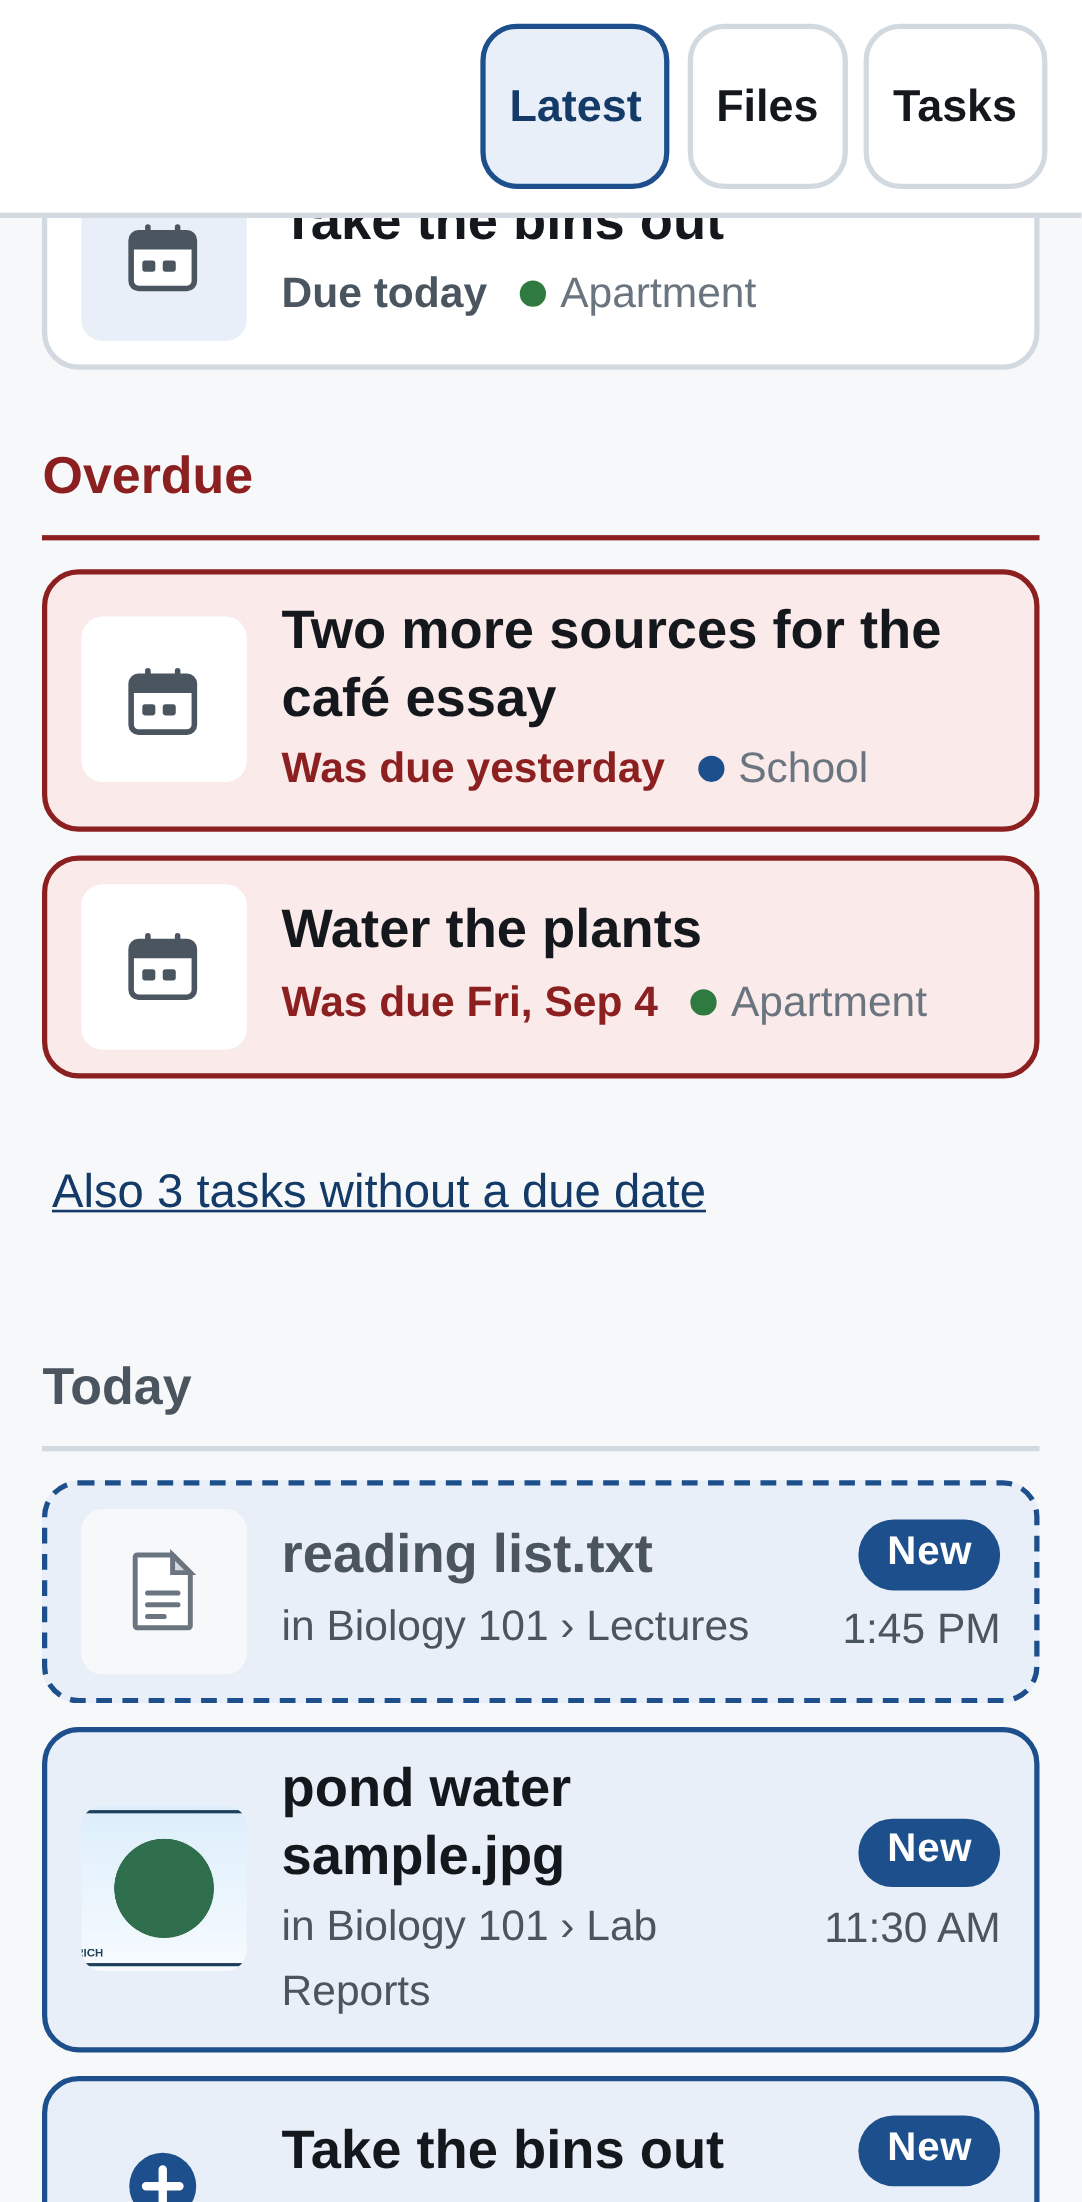
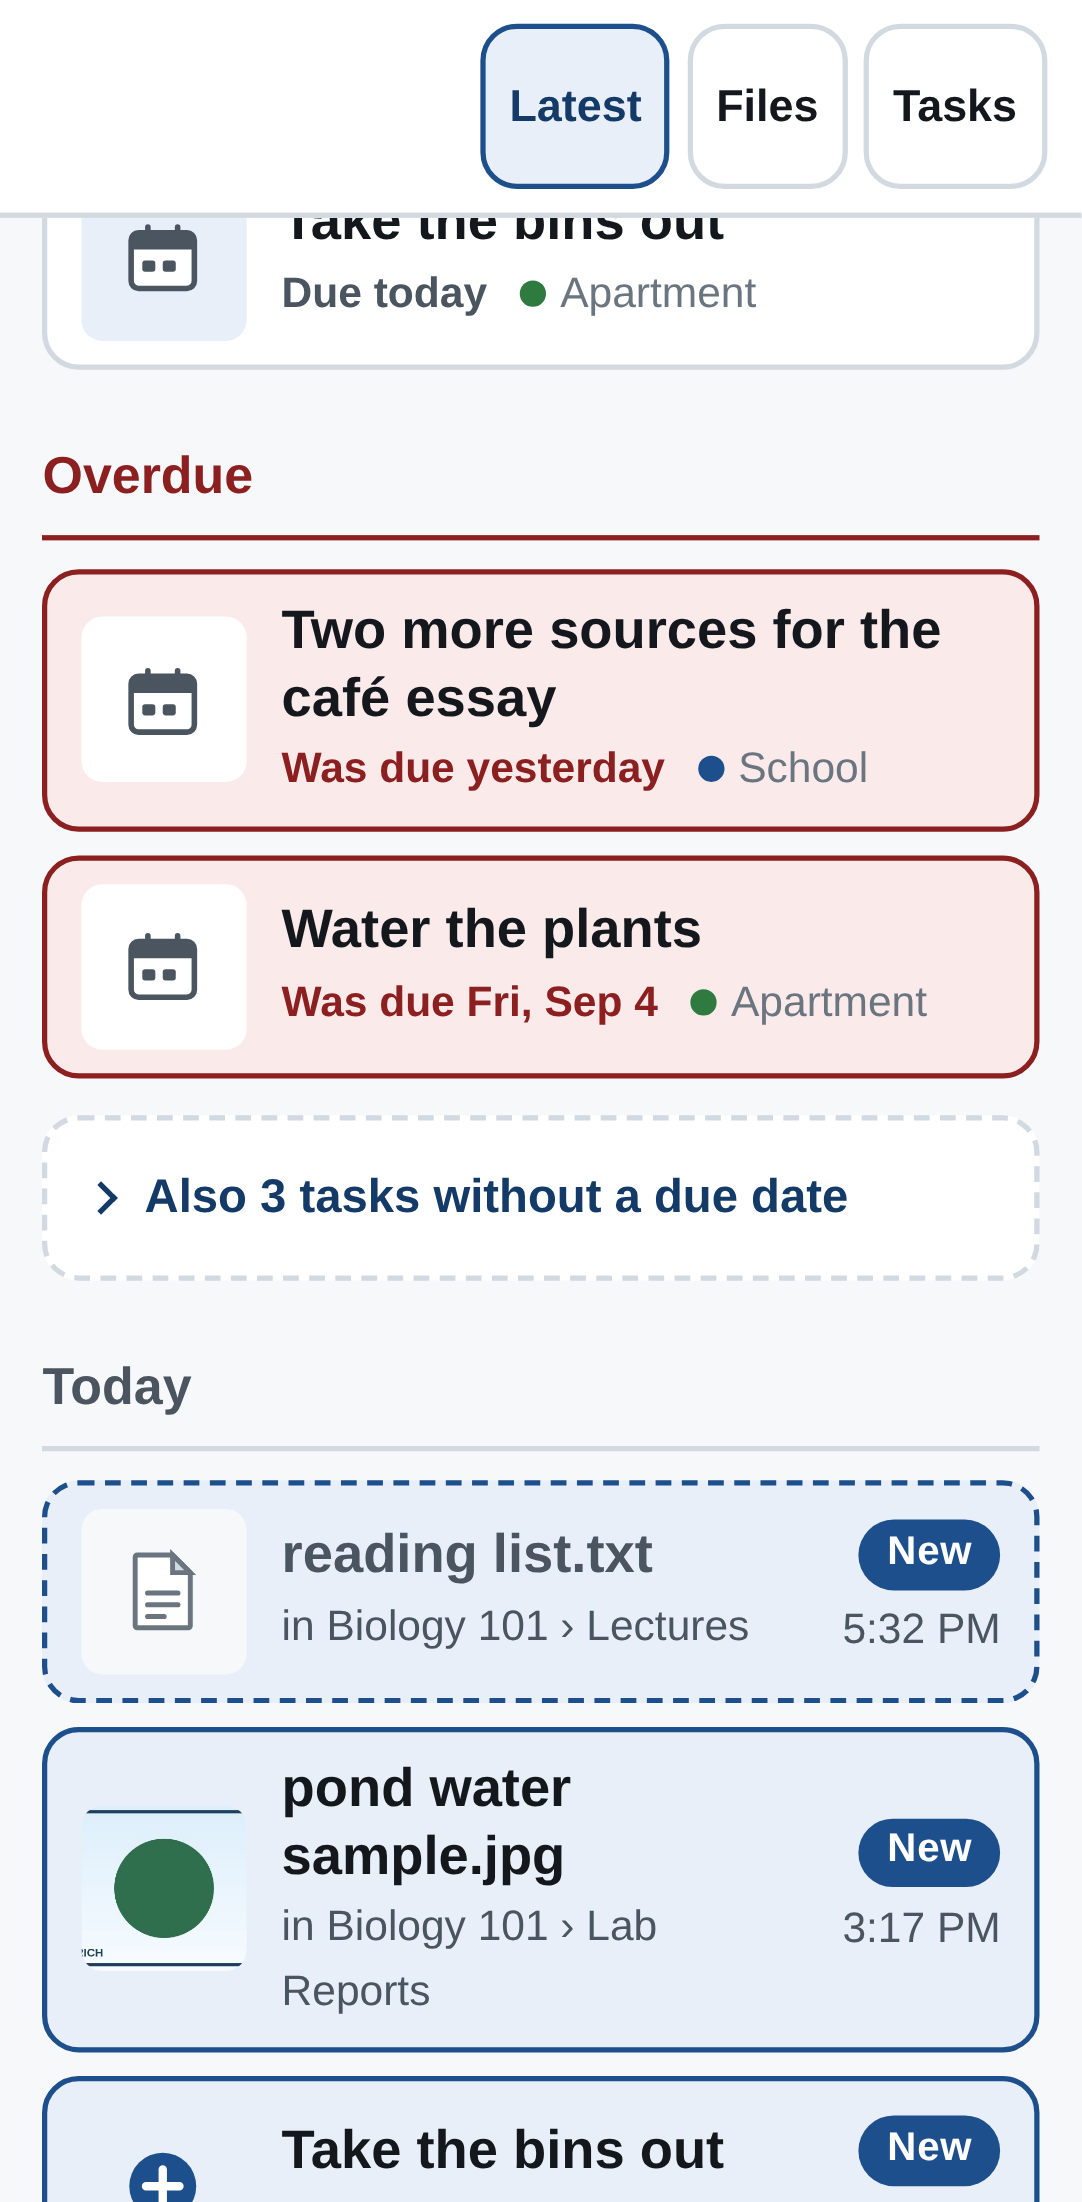
Write down why the undated tasks open in place
README's Latest description and its screenshot alt text; the #3 plan gets a
"superseded" note under the decision that sent the undated line to /tasks, with
the reasoning, the new function signatures and the test list. The follow-on
"all tasks together" issue is unaffected -- it no longer has to rescue this
line.

stream.png regenerated: the twisty is closed by default, but a dashed row with
a chevron is not the plain link it replaced.

Changed region(s): [[0.0305, 0.525, 0.793, 0.5559], [0.7625, 0.8647, 0.8845, 0.8955], [0.8235, 0.7103, 0.854, 0.7411]]

diff --git a/scripts/screenshots.js b/scripts/screenshots.js
@@ -63,7 +63,7 @@ async function main() {
     await page.waitForURL(`${demo.url}/#today`);
     await page.waitForLoadState('networkidle');
     // ...then back up a little, so the shot holds both sides of the line: the
-    // overdue task and the undated line above it, the Today divider, and the
+    // overdue task and the undated twisty above it, the Today divider, and the
     // first of the history below. Landing exactly on the anchor would show the
     // history alone, which is the half this page already had.
     await page.evaluate(() => window.scrollBy(0, -420));

diff --git a/docs/plans/issue-3-tasks-in-stream.md b/docs/plans/issue-3-tasks-in-stream.md
@@ -22,6 +22,21 @@ Status: planned 2026-09-07. Depends on #2 (the stream). Starts after #2 merges.
   is filed as its own issue, to be designed together with #4 (task cards). When
   that lands, this link points at it.
 
+**Superseded 2026-09-07 — the undated line is now a twisty, not a link.** The
+link out was the wrong answer, and the reason is what this whole page is for:
+Latest is already the cross-list view. Every dated open task is above the line,
+every finished one is in the history below it — so the undated bucket was the
+one thing on the page a reader had to leave the page to see, and where it sent
+her was a grid of list buttons rather than the four chores she was after. It is
+now a JS-free `<details>` sitting where the line was: the same wording as the
+summary ("Also 3 tasks without a due date", singular handled), closed by
+default so the axis is not pushed down the screen, and the tasks themselves as
+ordinary `task_item` rows inside it — same icon as a due row, "No due date"
+where the due row names a day, sorted by list then A-Z, each opening its list
+page. Files and Tasks remain the places for browsing by structure, and the
+"all tasks together" issue is unaffected: when it lands it is a Tasks-side
+view, not this page's escape hatch.
+
 ## What changes for the reader
 
 - Opening the app lands on **Today**. Above it, what's coming: "Due Tue, Aug 12 —
@@ -99,8 +114,13 @@ it is what makes "added" honest with the data this client actually writes.
 ```js
 export function taskEvents(todos, list, ledger, { now })  // → history events + ledger updates
 export function upcomingTasks(todos, list, { now })   // → dated open tasks
-export function undatedOpenCount(todos)
+export function undatedTasks(todos, list)             // → undated open tasks, as rows
+export function sortUndated(rows)                     // → by list, then A-Z
 ```
+
+(`undatedTasks` takes no clock: an undated row has no date to read against one,
+which is the whole difference between it and `upcomingTasks`. It was
+`undatedOpenCount(todos) → number` until the twisty replaced the link.)
 
 Event rules (history, below the line), fed by the todos plus the ledger:
 - `task-added` at `createdAt ?? stampAt`, on first sighting (§1b).
@@ -152,14 +172,18 @@ todosByList = await Promise.allSettled(calendars.map(c => fetchTodos(client, c.s
 
 - `buildStream(events, …)` accepts mixed `file`/`task-*` events; sorts by `at`
   desc; applies the overall limit (drop the oldest); day-groups; sets `isNew`.
-- New: `buildTimeline({ upcoming, history, undatedCount, tasksUnavailable })` →
+- New: `buildTimeline({ upcoming, history, undated, tasksUnavailable })` →
   the template model `{ future: [...days], today: {...}, past: [...days],
-  undatedLabel, moreLabel }`. `undatedLabel` = "Also 1 task without a due date"
-  / "Also 17 tasks without a due date" (pluralized), null when zero.
+  undated, moreLabel }`. `undated` is `{label, rows}` — the label is "Also 1
+  task without a due date" / "Also 17 tasks without a due date" (pluralized) —
+  or null when there are none. A twisty row is badged **New** when the same
+  task's Added row below the line is: the badge rule reads `at`, which an
+  undated row has not got, so rather than invent a second rule the timeline
+  reads the answer the history already came to, matched by list slug and UID.
 
 ### 5. Templates and CSS
 
-- `stream.njk`: future groups, then the undated line, then `<h2 id="today">`,
+- `stream.njk`: future groups, then the undated twisty, then `<h2 id="today">`,
   then the history. `_stream.njk` gains `task_item(event)` (icon by kind: a
   check for finished, a plus for added, a pencil for changed, a small calendar
   for due; four tiny SVGs in `public/icons/`), the list name with its accent
@@ -185,14 +209,18 @@ todosByList = await Promise.allSettled(calendars.map(c => fetchTodos(client, c.s
 
 Unit: `stream-tasks.test.js` (event rules, 60 s tolerance, cancelled skipped,
 fallbacks when stamps are missing, upcoming order with overdue at the bottom,
-undated count/pluralization), `stream.test.js` (mixed merge order, limit drops
+undated rows, their by-list-then-A-Z order, pluralization, empty → null),
+`stream.test.js` (mixed merge order, limit drops
 the oldest), `stream-route.test.js` (one list failing → page still renders and
 the warning logs once; calendar PROPFIND failing → `tasksUnavailable` line).
 
 E2E: a finished task appears between file rows in time order with its list name;
-future tasks above Today, overdue in red just above the line; "Also N tasks
-without a due date" links to `/tasks`; landing on `/#today` puts Today in view
-on the phone with JS off; the failing-list mock still renders the page.
+future tasks above Today, overdue in red just above the line; the "Also N tasks
+without a due date" summary is visible and ≥44px with its rows hidden until it
+is tapped, after which they are visible and link to `/tasks/<slug>`, at the
+normal root font and at a doubled one, with no horizontal overflow either way;
+landing on `/#today` puts Today in view on the phone with JS off; the
+failing-list mock still renders the page.
 
 ### 8. Docs
 
@@ -202,9 +230,9 @@ what "changed" means and that deletions are not shown.
 ## New issue to open (not part of #3)
 
 **"All tasks together, lists as filters"** — a `/tasks/all` view merging every
-shared list, sortable by due date, with the list names as filter chips; the
-"Also N tasks without a due date" line then links to it filtered to undated.
-Design with #4 (task cards), since it decides how a task row looks.
+shared list, sortable by due date, with the list names as filter chips. Design
+with #4 (task cards), since it decides how a task row looks. (It no longer has
+to rescue the undated line: that now opens in place on Latest.)
 
 ## Acceptance
 

diff --git a/README.md b/README.md
@@ -49,7 +49,7 @@ Every shot below is a phone-sized capture of `npm run demo` — the real app, th
 real templates, reading `demo/dataset.json` instead of a Nextcloud.
 
 <p align="center">
-  <img src="docs/screenshots/stream.png" width="190" alt="The Latest page: two overdue tasks in red under an Overdue heading, a line reading 'Also 3 tasks without a due date', then the Today divider and rows of files and task changes with New badges on the ones since her last visit.">
+  <img src="docs/screenshots/stream.png" width="190" alt="The Latest page: two overdue tasks in red under an Overdue heading, a closed twisty reading 'Also 3 tasks without a due date', then the Today divider and rows of files and task changes with New badges on the ones since her last visit.">
   <img src="docs/screenshots/files.png" width="190" alt="The Files page: big Biology 101, Essays and Math 210 folder buttons under a Latest / Files / Tasks toggle.">
   <img src="docs/screenshots/pdf.png" width="190" alt="A PDF rendered inline on the page, with the Back button still reachable at the top.">
   <img src="docs/screenshots/tasks.png" width="190" alt="The School task list: an overdue item in red, then a task with its due date, note, priority and percent-done.">
@@ -66,8 +66,10 @@ an anchor cannot answer is a plain `/` with no fragment, and `public/stream.js`
 covers that and nothing else.
 
 Above the line, the tasks that are coming up — furthest away at the top, the
-soonest just above the line, and anything late in red right against it, with a
-counted line for the tasks that carry no due date at all. Below the line, what
+soonest just above the line, and anything late in red right against it. Tasks
+that carry no due date at all sit on the line itself, behind a closed twisty
+counting them (“Also 3 tasks without a due date”); tapping it opens them in
+place, as ordinary task rows. Below the line, what
 has happened: files and task changes together, newest first, grouped by day,
 each row naming the folder it changed in or the task list it belongs to. Tapping
 a task row opens its list, which is the only place a task is shown in full.
